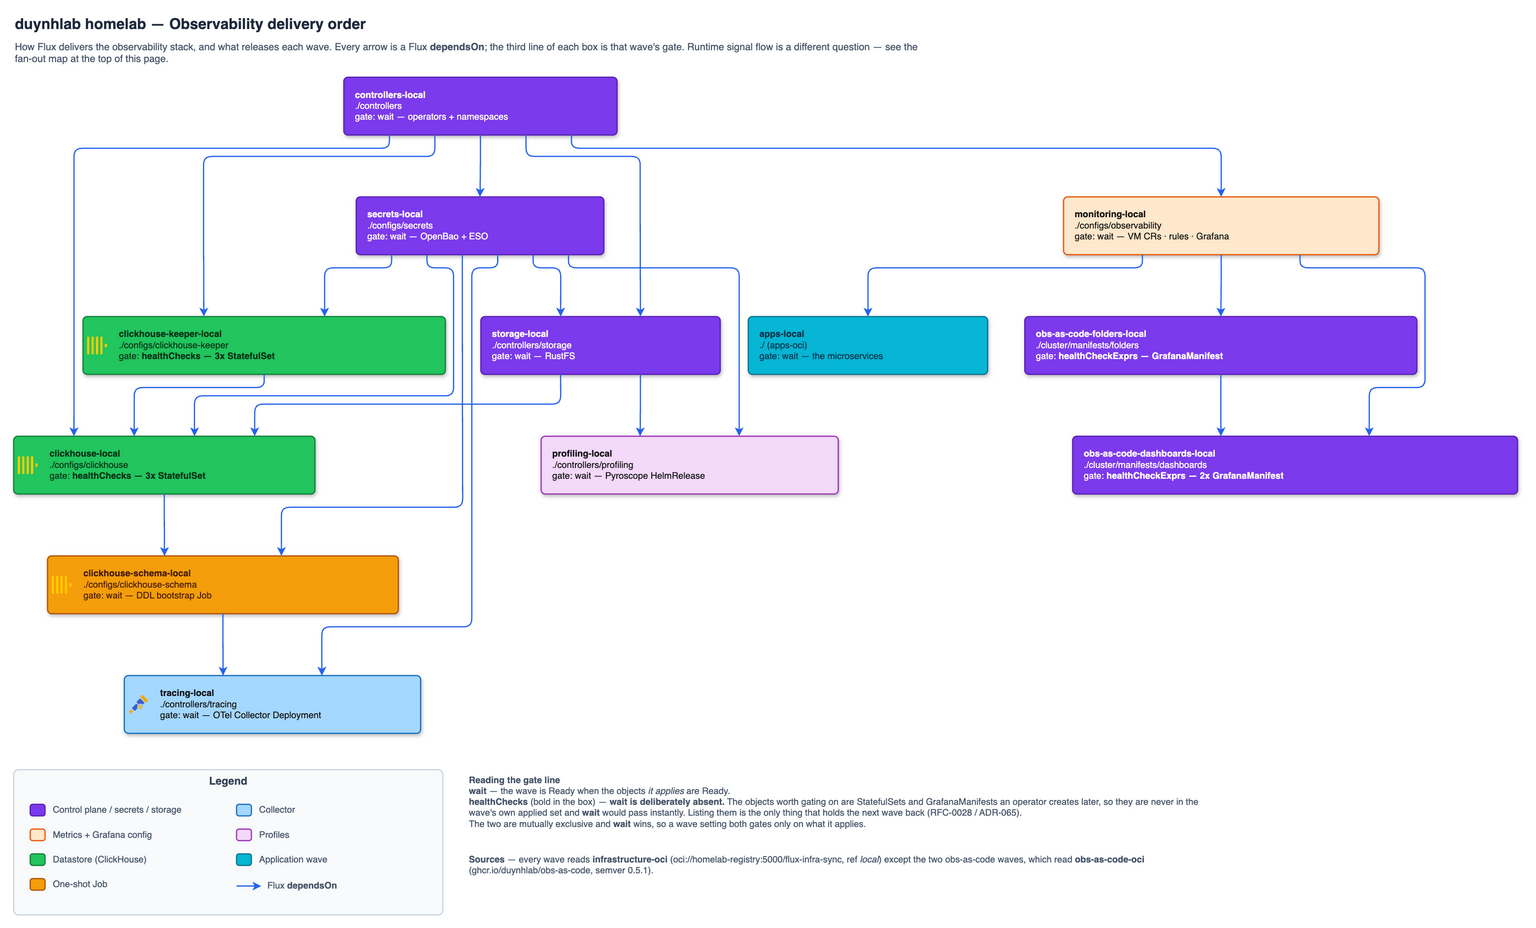
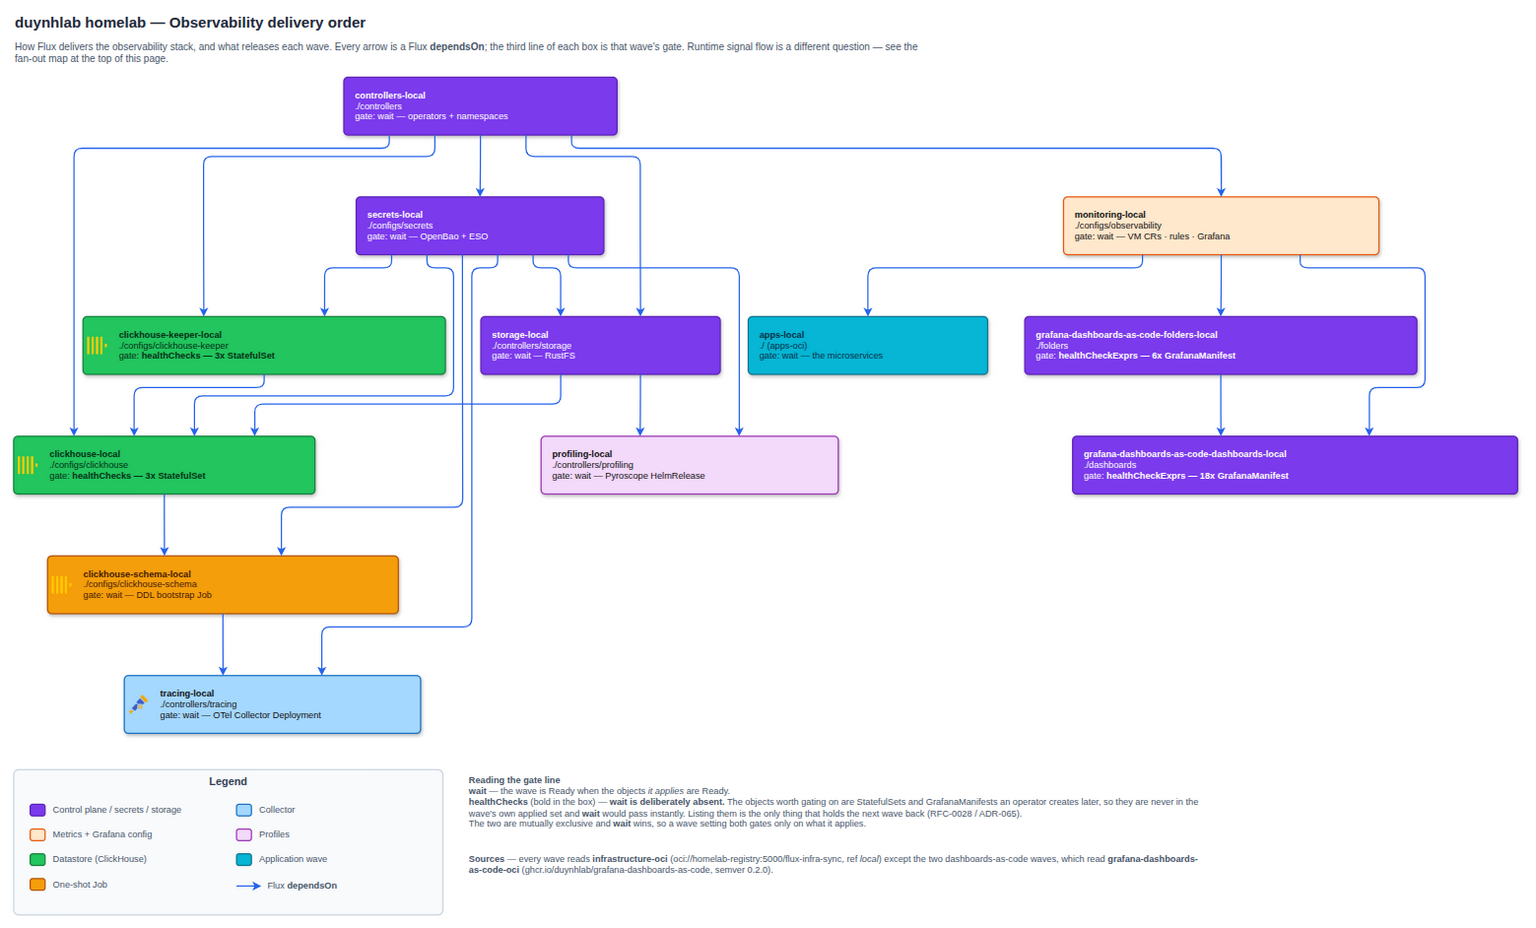
chore(observability): join the artifact's folders by uid, fix stale names
Audit of the retirement on Kind found duplicate "API Gateway" and
"Databases" folders: the remaining in-repo boards named their folder by
title, so the operator created a second folder beside the artifact's
uid-pinned one. The Envoy Gateway set, cloudnative-pg, service-graph and
vector now use folderUID (api-gateway, databases, microservices,
observability). A board applied before the as-code folders exist fails
once and the operator retries within a minute; GrafanaDashboard has no
Ready condition, so monitoring-local's wait is not blocked.

Also: the observability-delivery diagram and a recording-rule comment
still named obs-as-code; README and CHANGELOG record the change.

diff --git a/docs/observability/grafana/README.md b/docs/observability/grafana/README.md
@@ -122,6 +122,18 @@ The boards that remain as in-repo JSON are the ones nothing has ported: the Clic
 suite, the vendored Envoy Gateway set, `service-graph`, `cloudnative-pg`, `redis`, and the
 grafana.com / flux2-monitoring-example boards fetched by `spec.url`.
 
+**Folders belong to the artifact.** The six folders (`api-gateway`, `databases`,
+`kubernetes`, `microservices`, `observability`, `platform`) have fixed uids, so a
+remaining in-repo board that belongs with them names the folder by **`folderUID`**, never
+by title: the Envoy Gateway set → `api-gateway`, `cloudnative-pg` → `databases`,
+`service-graph` → `microservices`, `vector` → `observability`. A `folder:` title made the
+operator create a second folder of the same name next to the artifact's. The as-code
+folders arrive one wave after `monitoring-local`; a board applied first answers
+"folder not found" and the operator retries on its own (about a minute, measured on
+Kind) — the `GrafanaDashboard` carries no `Ready` condition, so `monitoring-local`'s
+`wait` does not block on it. Boards with no artifact folder (ClickHouse, Flux, SLO,
+VictoriaMetrics, Cache) keep a title.
+
 Dashboard documentation:
 - [Dashboard Reference](dashboard-reference.md) -- per-panel queries and what they measure
 - [Variables](variables.md) -- `$app`, `$namespace`, `$rate` and regex patterns
@@ -168,4 +180,4 @@ kubernetes/infra/configs/observability/grafana/
 - [Metrics](../metrics/README.md) -- RED methodology and metric definitions
 
 ---
-_Last updated: 2026-09-21 — added the `spec.oci` and `GrafanaManifest` delivery paths and the As-Code (V2 canary) folder; see [dashboards-v2.md](dashboards-v2.md). Previously 2026-09-05 — KEDA — Worker Autoscaling board added (ADR-055, Workflows / Async); the headline re-derived to 42 CRs / 12 folders — the 31 / 9 it had carried since 2026-08-18 was already stale. Previously 2026-08-27 — access rewritten to staff SSO (ADR-062: anonymous Admin is gone, Keycloak button is the human door, port-forward = Viewer only); retired Jaeger dropped from the intro. Previous sync 2026-08-18 (dashboard inventory)._
+_Last updated: 2026-09-25 — remaining boards join the artifact's folders by `folderUID` (no duplicate folder titles). Previously 2026-09-21 — added the `spec.oci` and `GrafanaManifest` delivery paths and the As-Code (V2 canary) folder; see [dashboards-v2.md](dashboards-v2.md). Previously 2026-09-05 — KEDA — Worker Autoscaling board added (ADR-055, Workflows / Async); the headline re-derived to 42 CRs / 12 folders — the 31 / 9 it had carried since 2026-08-18 was already stale. Previously 2026-08-27 — access rewritten to staff SSO (ADR-062: anonymous Admin is gone, Keycloak button is the human door, port-forward = Viewer only); retired Jaeger dropped from the intro. Previous sync 2026-08-18 (dashboard inventory)._

diff --git a/CHANGELOG.md b/CHANGELOG.md
@@ -121,6 +121,24 @@ Skeleton (copy what you need):
 
 #### Observability
 
+- **Eighteen dashboards now come only from the as-code artifact; the
+  hand-drawn copies are gone.** `OCIRepository grafana-dashboards-as-code`
+  (`v0.2.0`) and two waves (`grafana-dashboards-as-code-folders-local`,
+  `-dashboards-local`, gated by `healthCheckExprs`) replace the nine vendored
+  JSON boards, the eight CRs that pulled boards from the `helm-charts` chart,
+  obs-as-code and `spec.url`, the three V2 canaries and the chart
+  `HelmRelease`. Audited board by board against what the cluster served: all
+  18 keep their uid and title; 13 are identical query for query, the rest
+  differ by `$__rate_interval`, variables instead of hard-coded values, the
+  three retired baseline panels, and the Microservices board's documented
+  40 → 28 consolidation (it also drops Success RPS (2xx), Total Request and
+  Total Requests by Endpoint). The remaining in-repo boards join the
+  artifact's folders by `folderUID` (Envoy Gateway → `api-gateway`,
+  `cloudnative-pg` → `databases`, `service-graph` → `microservices`,
+  `vector` → `observability`), which ends the duplicate "API Gateway" and
+  "Databases" folders. Verified on Kind: both waves Ready, 43 boards in 12
+  folders with no duplicate or empty folder, K5.7 green.
+
 - **The cluster runs train #2: error text under `exception.message`, a UCUM
   unit on every instrument, typed recipients and addresses gone from spans.**
   Releases `user v2.4.0` · `product v1.15.0` · `inventory v0.8.0` · `cart v2.3.0`
